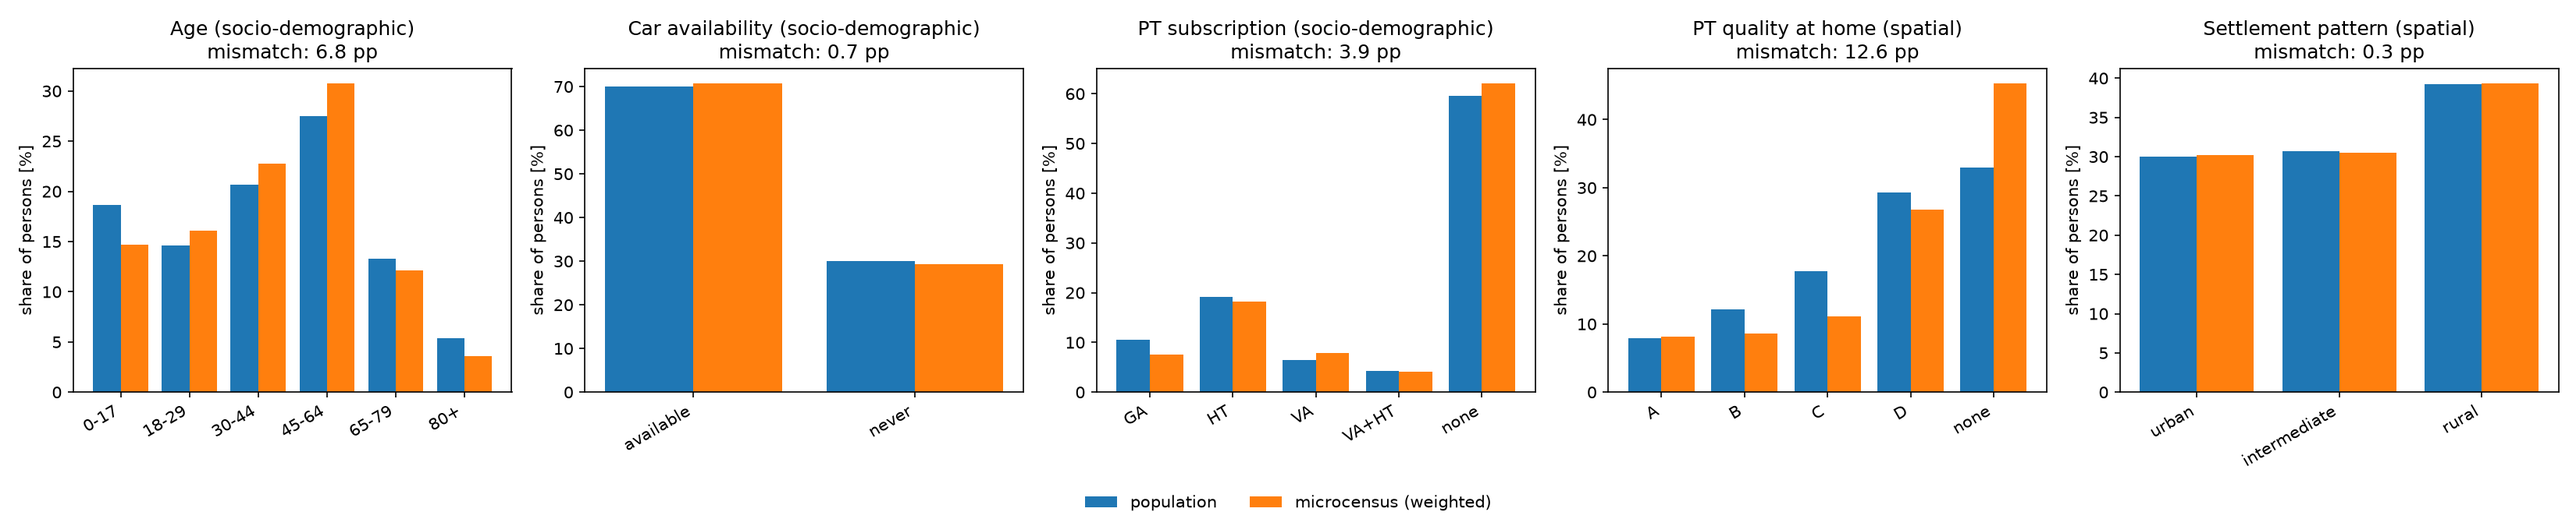
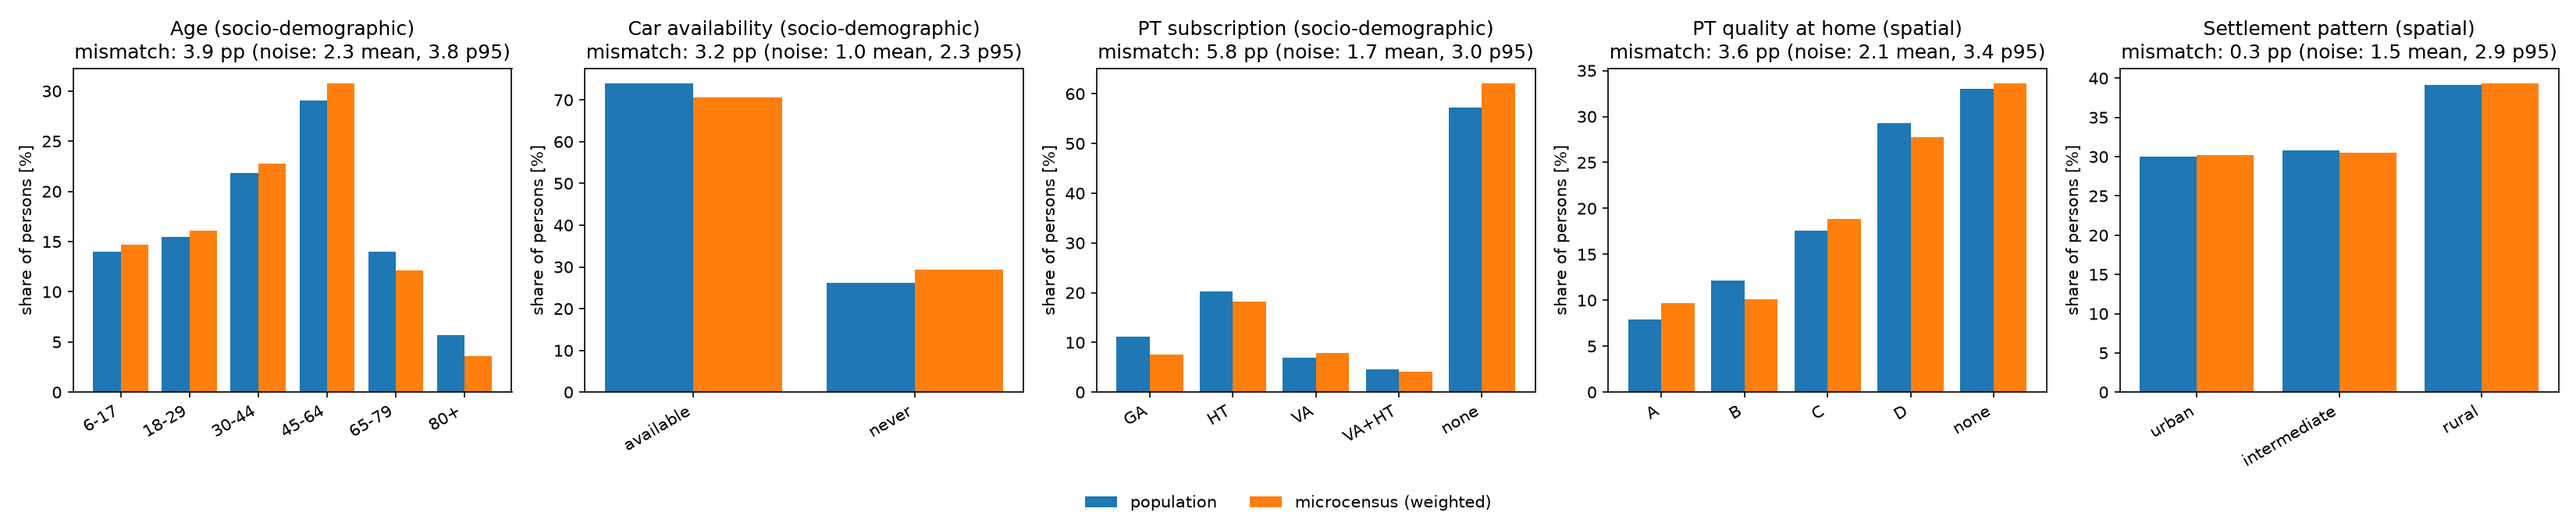
feat(assignment): add bootstrap sampling-noise reference and use the same PT quality and age filter everywhere
- bootstrap_noise.py: person-level bootstrap of the microcensus gives the mean and
  95th percentile TVD expected from sampling noise alone; shown in the titles of
  comparison.png and mode_share.png and written to mismatch.csv / mode_share_mismatch.csv
- compare.py: look up the PT quality of microcensus homes in the same ARE 2026
  polygons as the population instead of using W_OeV_KLASSE; drop persons under 6
  from the population, as in the other comparisons
- convergence.py: prints the convergence numbers quoted in the methodology
- DATA_SOURCES.md: record the download date of the OeV-Gueteklassen

diff --git a/assignment/compare_distributions/compare.py b/assignment/compare_distributions/compare.py
@@ -10,15 +10,19 @@ Outputs: assignment/compare_distributions/output/comparison.csv, comparison.png 
 
 Each subplot title shows the mismatch: the total variation distance between the two distributions,
 0.5 * sum(|population% - microcensus%|), in percentage points (0 = identical, 100 = disjoint). It is the
-share of persons that would have to change category for the population to match the microcensus.
+share of persons that would have to change category for the population to match the microcensus. Next to it
+is the sampling noise of the microcensus: the mean and 95th percentile of the TVD of bootstrap resamples of
+the microcensus persons to the full sample (bootstrap_noise.py). A mismatch below the 95th percentile cannot
+be told apart from sampling noise.
 
 Notes
 - Microcensus shares are weighted with the person weight WP; population shares are unweighted.
 - Car availability: the population only distinguishes always/never, so the microcensus "always" and
   "by arrangement" answers are merged into "available".
-- The microcensus has no target persons under 6, so the youngest age class differs by design.
-- PT quality: the population value is looked up from the ARE Gueteklassen polygons (EPSG:2056) at
-  the home location; homes outside every polygon get "none". The microcensus uses its own W_OeV_KLASSE.
+- Persons aged under 6 are dropped from the population: the microcensus has no target persons that young.
+- PT quality: both datasets are looked up from the same ARE Gueteklassen polygons (EPSG:2056) at the home
+  location; homes outside every polygon get "none". Microcensus homes (W_X/W_Y) are WGS84 and are transformed.
+  The microcensus' own W_OeV_KLASSE is not used.
 - Settlement pattern: both datasets are classified from the home location with the BFS Stadt/Land-
   Typologie 2012 (STALAN2012: urban / intermediate / rural municipality). Population homes are in
   EPSG:2056, microcensus homes (W_X/W_Y) are WGS84 and are transformed.
@@ -36,6 +40,8 @@ import matplotlib.pyplot as plt
 import numpy as np
 import pandas as pd
 
+from bootstrap_noise import tvd_noise
+
 ROOT = Path(__file__).resolve().parents[2]
 DATA = ROOT / "data"
 POPULATION = DATA / "filtered" / "fribourg_population.xml.gz"
@@ -44,8 +50,8 @@ GUETEKLASSEN = DATA / "gueteklassen_oev_2026" / "OeV_Gueteklassen_ARE.gpkg"
 STADTLAND = DATA / "stadtland_typologie" / "Boundaries_G1_GDETYP2012_20230101_de.gpkg"
 OUT = Path(__file__).resolve().parent / "output"
 
-AGE_BINS = [0, 18, 30, 45, 65, 80, 200]
-AGE_LABELS = ["0-17", "18-29", "30-44", "45-64", "65-79", "80+"]
+AGE_BINS = [6, 18, 30, 45, 65, 80, 200]
+AGE_LABELS = ["6-17", "18-29", "30-44", "45-64", "65-79", "80+"]
 CAR = ["available", "never"]
 SUB = ["GA", "HT", "VA", "VA+HT", "none"]
 PT = ["A", "B", "C", "D", "none"]
@@ -84,12 +90,13 @@ def read_population():
     return pop
 
 
-def add_pt_quality(pop):
-    zones = gpd.read_file(GUETEKLASSEN, layer="OeV_Gueteklassen_ARE", columns=["KLASSE"])
-    homes = gpd.GeoDataFrame(geometry=gpd.points_from_xy(pop["x"], pop["y"]), index=pop.index, crs="EPSG:2056")
-    joined = homes.sjoin(zones.to_crs(homes.crs), how="left", predicate="within")
+def pt_quality(x, y, crs):
+    """ARE OeV-Gueteklasse of each point, "none" outside every polygon (index of x/y is kept)."""
+    zones = gpd.read_file(GUETEKLASSEN, layer="OeV_Gueteklassen_ARE", columns=["KLASSE"]).to_crs("EPSG:2056")
+    pts = gpd.GeoDataFrame(geometry=gpd.points_from_xy(x, y), index=x.index, crs=crs).to_crs("EPSG:2056")
+    joined = pts.sjoin(zones, how="left", predicate="within")
     best = joined["KLASSE"].groupby(level=0).min()  # overlapping polygons: keep the best class (A < B < ...)
-    pop["pt"] = best.reindex(pop.index).fillna("none")
+    return best.reindex(x.index).fillna("none")
 
 
 def settlement_type(x, y, crs):
@@ -121,15 +128,16 @@ def read_microcensus():
     ga, ht = mc["f41610a"] == 1, mc["f41610b"] == 1
     va = (mc["f41610c"] == 1) | (mc["f41610d"] == 1)
     mc["sub"] = np.select([ga, ht & va, ht, va], ["GA", "VA+HT", "HT", "VA"], "none")
-    mc["pt"] = mc["W_OeV_KLASSE"].map({1: "A", 2: "B", 3: "C", 4: "D", 5: "none"})
+    mc["pt"] = pt_quality(mc["W_X"], mc["W_Y"], "EPSG:4326")
     mc["settlement"] = settlement_type(mc["W_X"], mc["W_Y"], "EPSG:4326")
     return mc
 
 
 def main():
     pop = read_population()
-    add_pt_quality(pop)
+    pop["pt"] = pt_quality(pop["x"], pop["y"], "EPSG:2056")
     pop["settlement"] = settlement_type(pop["x"], pop["y"], "EPSG:2056")
+    pop = pop[pop["age"] >= 6].copy()
     pop["age_c"] = pd.cut(pop["age"], AGE_BINS, right=False, labels=AGE_LABELS)
     pop["car"] = pop["car"].map({"always": "available", "arrangement": "available", "never": "never"})
     mc = read_microcensus()
@@ -146,7 +154,10 @@ def main():
             print(f"microcensus: {mc[col].isna().sum()} persons without {title}, excluded from its shares")
         p, m = share(pop[col], cats), share(mc[col], cats, mc["WP"])
         tvd = 0.5 * (p - m).abs().sum()  # total variation distance: share of persons that would have to move
-        summary.append({"attribute": title, "type": kind, "total_variation_distance_pp": tvd})
+        counts = pd.get_dummies(mc[col]).reindex(columns=cats, fill_value=False).astype(float).mul(mc["WP"], axis=0)
+        noise_mean, noise_p95 = tvd_noise(counts)
+        summary.append({"attribute": title, "type": kind, "total_variation_distance_pp": tvd,
+                        "noise_mean_pp": noise_mean, "noise_p95_pp": noise_p95})
         for c in cats:
             table.append({"type": kind, "attribute": title, "category": c, "population_%": p[c],
                           "microcensus_%": m[c], "difference_pp": p[c] - m[c]})
@@ -154,7 +165,7 @@ def main():
         ax.bar([i - 0.2 for i in x], p.values, 0.4, label="population")
         ax.bar([i + 0.2 for i in x], m.values, 0.4, label="microcensus (weighted)")
         ax.set_xticks(list(x), cats, rotation=30, ha="right")
-        ax.set_title(f"{title} ({kind})\nmismatch: {tvd:.1f} pp")
+        ax.set_title(f"{title} ({kind})\nmismatch: {tvd:.1f} pp (noise: {noise_mean:.1f} mean, {noise_p95:.1f} p95)")
         ax.set_ylabel("share of persons [%]")
     handles, labels = axes[0].get_legend_handles_labels()
     fig.legend(handles, labels, loc="lower center", ncol=2, frameon=False)

diff --git a/assignment/compare_distributions/mode_share.py b/assignment/compare_distributions/mode_share.py
@@ -20,6 +20,8 @@ Notes
   (Z_X/Z_Y of the last stage) lies outside the boundary are dropped, as in the simulation.
 - Target: data/Fribourg_10pct/global_target_mode_shares.csv.
 - The mismatch is the total variation distance between the share vectors, in percentage points, as in compare.py.
+  The sampling noise of the microcensus (bootstrap over persons, see bootstrap_noise.py) is shown next to it and
+  written to mode_share_mismatch.csv.
 """
 from pathlib import Path
 
@@ -29,6 +31,8 @@ import numpy as np
 import pandas as pd
 from pyproj import Transformer
 from shapely import points
+
+from bootstrap_noise import tvd_noise
 
 ROOT = Path(__file__).resolve().parents[2]
 DATA = ROOT / "data"
@@ -108,6 +112,12 @@ def read_microcensus():
     return read_microcensus_trips().groupby("mode")["weight"].sum().reindex(MODES, fill_value=0.0)
 
 
+def microcensus_noise():
+    trips = read_microcensus_trips()
+    counts = trips.pivot_table(index="HHNR", columns="mode", values="weight", aggfunc="sum", fill_value=0.0)
+    return tvd_noise(counts.reindex(columns=MODES, fill_value=0.0))
+
+
 def main():
     shares = pd.DataFrame({
         "simulation": read_simulation(),
@@ -117,6 +127,7 @@ def main():
     shares = 100 * shares / shares.sum()
     mismatch = {c: 0.5 * (shares["simulation"] - shares[c]).abs().sum() for c in ("microcensus", "target")}
 
+    noise_mean, noise_p95 = microcensus_noise()
     fig, ax = plt.subplots(figsize=(10, 5.5))
     x = np.arange(len(MODES))
     for i, col in enumerate(shares.columns):
@@ -126,14 +137,18 @@ def main():
     ax.set_ylabel("share of trips [%]")
     ax.set_title("Aggregated mode share: simulation vs microcensus vs target\n"
                  f"mismatch of simulation: {mismatch['microcensus']:.1f} pp to microcensus, "
-                 f"{mismatch['target']:.1f} pp to target")
+                 f"{mismatch['target']:.1f} pp to target\n"
+                 f"sampling noise of the microcensus: {noise_mean:.1f} pp mean, {noise_p95:.1f} pp 95th percentile")
     ax.legend(frameon=False)
     fig.tight_layout()
     OUT.mkdir(parents=True, exist_ok=True)
     fig.savefig(OUT / "mode_share.png", dpi=150)
     shares.to_csv(OUT / "mode_share.csv", index_label="mode", float_format="%.2f")
     print(shares.round(1).to_string())
-    print({k: round(v, 1) for k, v in mismatch.items()})
+    print({k: round(v, 1) for k, v in mismatch.items()}, f"noise mean {noise_mean:.1f}, p95 {noise_p95:.1f}")
+    pd.DataFrame([{"mismatch_microcensus_pp": mismatch["microcensus"], "mismatch_target_pp": mismatch["target"],
+                   "noise_mean_pp": noise_mean, "noise_p95_pp": noise_p95}]).to_csv(
+        OUT / "mode_share_mismatch.csv", index=False, float_format="%.2f")
     print(f"Wrote {OUT}")
 
 

diff --git a/assignment/compare_distributions/bootstrap_noise.py b/assignment/compare_distributions/bootstrap_noise.py
@@ -1,0 +1,42 @@
+"""Sampling-noise reference for the total variation distances (TVD) of the comparisons.
+
+The filtered microcensus is a small sample, so even a perfect model would show a TVD > 0. We estimate this
+noise floor by a person-level bootstrap: draw the microcensus persons with replacement (a person keeps all
+their trips, so correlated trips stay together), recompute the weighted distribution and measure its TVD
+to the distribution of the full sample. The mean and the 95th percentile of these TVDs are the TVD two
+samples of this size would show by chance. The synthetic population is much larger than the microcensus
+sample, so its own sampling noise is ignored.
+
+Used by compare.py and mode_share.py (function `tvd_noise`). Run on its own it only prints a small self-test.
+"""
+import numpy as np
+import pandas as pd
+
+N_BOOT = 1000
+CHUNK = 100
+
+
+def tvd_noise(person_counts, n_boot=N_BOOT, seed=0):
+    """(mean, 95th percentile) of the bootstrap TVD in percentage points.
+
+    person_counts: DataFrame, one row per person (cluster), one column per category, entries = the
+    person's weighted count in that category (e.g. WP for a person in the category, or the summed trip weights).
+    Persons without any counts are kept: they still take part in the resampling.
+    """
+    counts = person_counts.to_numpy(dtype=float)
+    full = counts.sum(axis=0)
+    full = full / full.sum()
+    rng = np.random.default_rng(seed)
+    tvds = []
+    for start in range(0, n_boot, CHUNK):
+        idx = rng.integers(0, len(counts), size=(min(CHUNK, n_boot - start), len(counts)))
+        boot = counts[idx].sum(axis=1)
+        boot = boot / boot.sum(axis=1, keepdims=True)
+        tvds.append(0.5 * np.abs(boot - full).sum(axis=1))
+    tvds = 100 * np.concatenate(tvds)
+    return float(tvds.mean()), float(np.percentile(tvds, 95))
+
+
+if __name__ == "__main__":
+    demo = pd.DataFrame({"a": [1.0] * 150 + [0.0] * 150, "b": [0.0] * 150 + [1.0] * 150})
+    print("self-test (300 persons, 50/50 split):", tvd_noise(demo))

diff --git a/assignment/compare_distributions/convergence.py b/assignment/compare_distributions/convergence.py
@@ -1,0 +1,28 @@
+"""Convergence numbers of the simulation run used by the analysis (mode_share.SIM), for methodology.tex.
+
+Usage (from the repository root):
+    .venv/Scripts/python assignment/compare_distributions/convergence.py
+
+Prints the numbers quoted in the "Simulation setup" section: the largest change of any mode share from
+iteration 15 on and over the last ten iterations (percentage points), and the average executed score.
+"""
+import pandas as pd
+
+from mode_share import SIM
+
+modes = pd.read_csv(SIM / "modestats.csv", sep=";").set_index("iteration")
+scores = pd.read_csv(SIM / "scorestats.csv", sep=";").set_index("iteration")
+last = modes.index.max()
+
+
+def spread(frm):
+    window = modes.loc[frm:]
+    return 100 * (window.max() - window.min()).max()
+
+
+print(f"run: {SIM}, last iteration {last}")
+print(f"max change of a mode share from iteration 15 on: {spread(15):.3f} pp")
+print(f"max change of a mode share over the last ten iterations: {spread(last - 9):.3f} pp")
+s = scores["avg_executed"]
+print(f"avg executed score: iteration 1 {s.loc[1]:.2f}, iteration 10 {s.loc[10]:.2f}, "
+      f"last ten iterations {s.loc[last - 9:].min():.2f} to {s.loc[last - 9:].max():.2f}")

diff --git a/assignment/DATA_SOURCES.md b/assignment/DATA_SOURCES.md
@@ -15,7 +15,7 @@ The `data/` folder is git-ignored, so this file records what is in it and where 
 | CRS | EPSG:2056 (LV95) |
 | Content | Polygons with `KLASSE` = A (very good) to D; locations outside every polygon have no class |
 | License | Open use, source must be credited (per the opendata.swiss entry) |
-| Version / download date | 2026 edition per the folder name; exact download date **TODO** |
+| Version / download date | 2026 edition per the folder name; downloaded 2026-11-06 |
 
 ### Stadt/Land-Typologie 2012 (settlement pattern)
 
